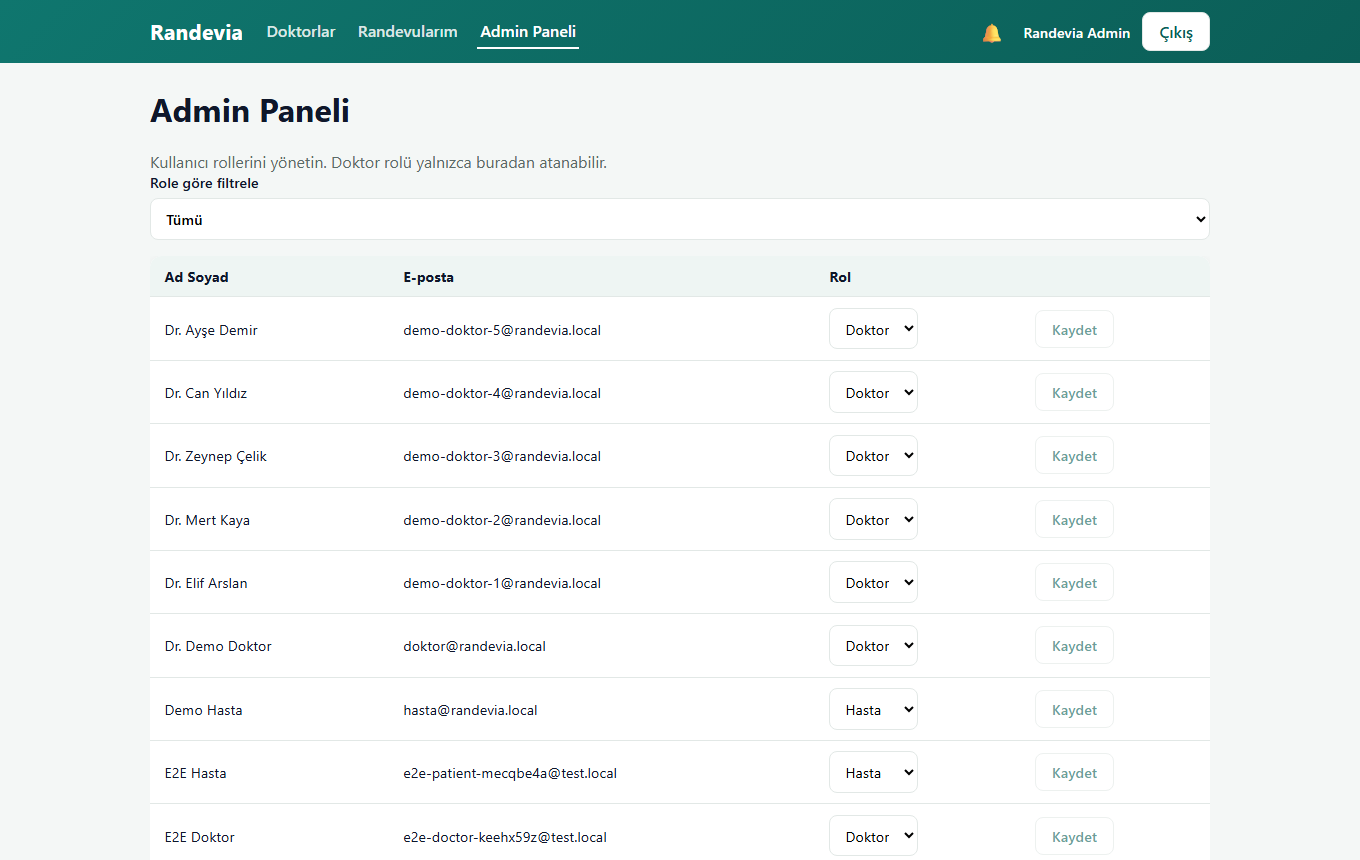
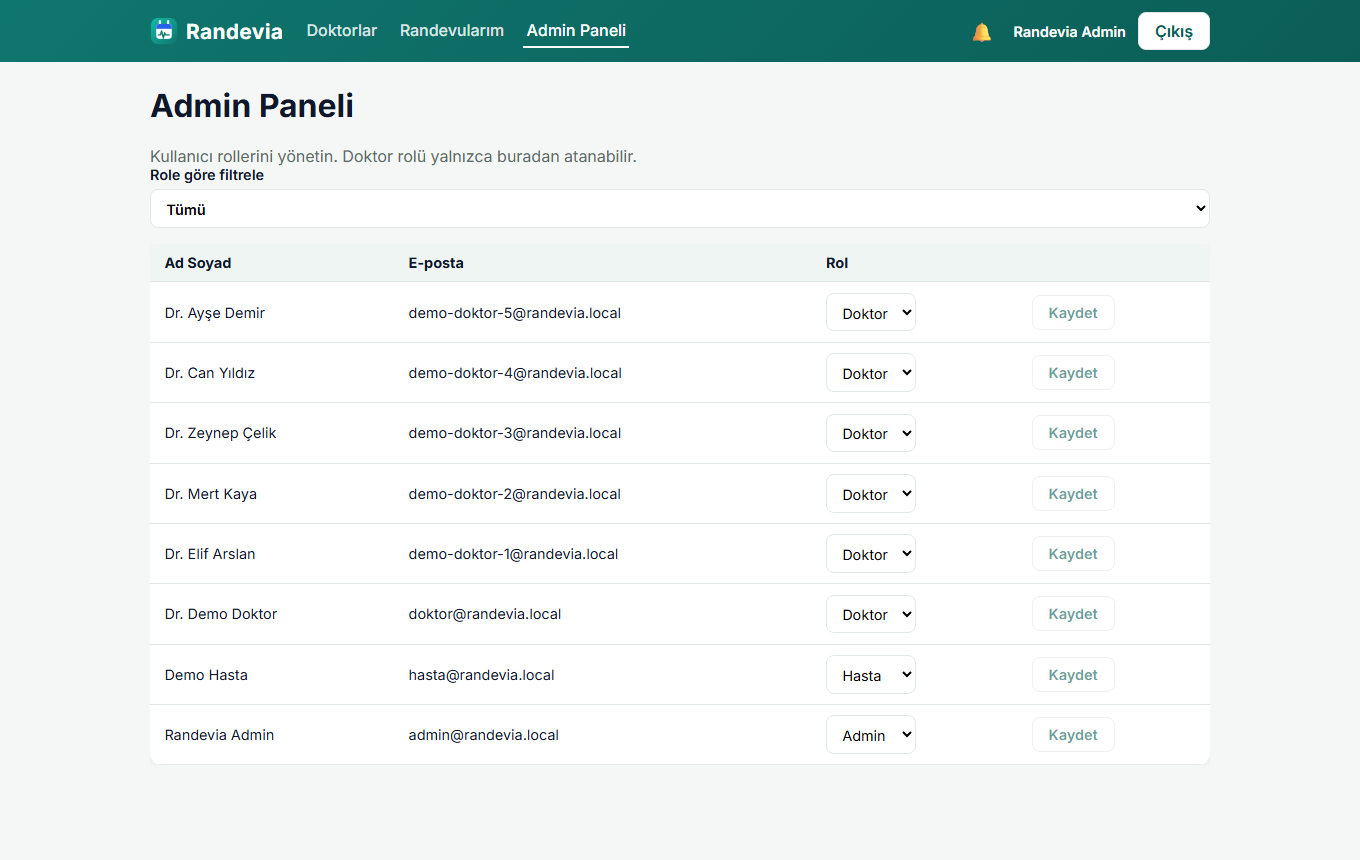
docs: update README for the Turkish-messages and redesign work
Logo at the top, a design-decision note on the Turkish-only user-facing
messages (Zod locale + manual translations) and on denormalizing the
doctor's name, a short note on the new design system, updated test count
(168), and fresh screenshots taken from the redesigned, cleaned-up UI.

diff --git a/README.md b/README.md
@@ -1,3 +1,5 @@
+<p align="center"><img src="web/public/logo.svg" alt="Randevia" height="56" /></p>
+
 # Randevia
 
 **Randevia**, hastaların doktorlardan randevu alabildiği, doktorların randevularını yönetebildiği ve her iki tarafın da randevu hareketlerinden **anlık (gerçek zamanlı)** olarak haberdar edildiği, **mikroservis mimarisiyle** geliştirilmiş bir sağlık randevu sistemidir.
@@ -39,7 +41,8 @@ Sistem; tek giriş noktası olan bir **API Gateway**, kendi veritabanına sahip 
 - **Güvenlik:** JWT (access + refresh token), httpOnly refresh cookie, bcrypt ile parola özeti, helmet, CORS, rate limiting.
 - **Gözlemlenebilirlik:** Her isteğe atanan `X-Request-Id` gateway'den servislere taşınır ve tüm loglarda yer alır; yapılandırılmış JSON loglar.
 - **Web arayüzü:** React + TypeScript SPA; Türkçe, mobil uyumlu, yalnızca gateway ile konuşur. Canlı bildirim zili, toast mesajları ve anlık güncellenen doktor müsaitliği içerir.
-- **Kalite:** TypeScript strict mode, Zod ile girdi ve ortam değişkeni doğrulaması, ESLint + Prettier, 167 backend birim/entegrasyon testi, 34 adımlık REST uçtan uca test ve Socket.io üzerinden iki tarayıcıyla çalışan bir Playwright uçtan uca testi.
+- **Tamamen Türkçe:** Arayüz metinleri ve API'nin ürettiği her hata/uyarı mesajı (doğrulama hataları dahil) Türkçe; hata *kodları* ve loglar İngilizce kalır.
+- **Kalite:** TypeScript strict mode, Zod ile girdi ve ortam değişkeni doğrulaması, ESLint + Prettier, 168 backend birim/entegrasyon testi, 34 adımlık REST uçtan uca test ve Socket.io üzerinden iki tarayıcıyla çalışan bir Playwright uçtan uca testi.
 
 ---
 
@@ -224,6 +227,12 @@ node scripts/e2e.mjs
 
 Web arayüzünün gerçek zamanlı akışını iki tarayıcıyla (hasta + doktor) doğrulayan Playwright testi için [`web/e2e/README.md`](web/e2e/README.md) dosyasına bakın.
 
+Her iki test de kendi oluşturduğu kullanıcı/doktor/randevu/bildirimi, çalışma biter bitmez (`scripts/clean-test-data.mjs` ile) otomatik temizler. Script, `@randevia.local` dışındaki her auth kullanıcısını ve ona referans veren her kaydı siler; demo hesapları ve seed doktorları (hepsi `@randevia.local`) etkilenmez. Elle de çalıştırılabilir:
+
+```bash
+node scripts/clean-test-data.mjs
+```
+
 ### Yerel geliştirme (Docker olmadan servis çalıştırma)
 
 ```bash
@@ -323,7 +332,7 @@ Tüm istekler gateway üzerinden yapılır: `http://localhost:3000`. 🔒 işare
 |---|---|---|---|
 | GET | `/api/v1/doctors` | 🔒 herkes | Doktorları listeler |
 | GET | `/api/v1/doctors/:id` | 🔒 herkes | Doktor detayı, müsaitlik aralıkları ve dolu saatler (`bookedSlots`) |
-| POST | `/api/v1/doctors/me` | 🔒 doctor | Kendi doktor profilini oluşturur / günceller (uzmanlık, biyografi) |
+| POST | `/api/v1/doctors/me` | 🔒 doctor | Kendi doktor profilini oluşturur / günceller (ad, uzmanlık, biyografi) |
 | POST | `/api/v1/doctors/me/availability` | 🔒 doctor | Müsaitlik aralığı ekler |
 
 ### Randevular (appointment-service)
@@ -405,10 +414,10 @@ Her servis, gerçek MongoDB ve RabbitMQ'ya karşı çalışan entegrasyon testle
 | Servis | Test sayısı | Kapsanan başlıca senaryolar |
 |---|---:|---|
 | auth-service | **41** ✅ | Kayıt, giriş, refresh (cookie ve gövde), `/me`, doktor rolüyle kendi kendine kayıt reddi, admin rol atama ve listeleme, yetkisiz erişim (401/403), admin'in kendi rolünü değiştirememesi, admin bootstrap ve şifre rotasyonu, production'da zayıf secret reddi, validate middleware (Express 5 `req.query`) |
-| appointment-service | **48** ✅ | Doktor profili ve müsaitlik, randevu oluşturma, çakışma (409), onay/iptal kuralları, rol kısıtları, olay yayınlama, dolu saatlerin (`bookedSlots`) yalnızca pending/confirmed randevulardan gelmesi, RabbitMQ kapalıyken iş akışının sürmesi, yeniden bağlanma, ortam değişkeni doğrulaması, validate middleware |
+| appointment-service | **49** ✅ | Doktor profili (adıyla birlikte) ve müsaitlik, randevu oluşturma, çakışma (409), onay/iptal kuralları, rol kısıtları, olay yayınlama, dolu saatlerin (`bookedSlots`) yalnızca pending/confirmed randevulardan gelmesi, RabbitMQ kapalıyken iş akışının sürmesi, yeniden bağlanma, ortam değişkeni doğrulaması, validate middleware |
 | notification-service | **50** ✅ | Olaydan bildirim üretimi, şablonlar, ack/nack kararları, gecikmeli retry, deneme hakkı bitince DLQ, bozuk mesajın DLQ'ya gitmesi, idempotency, sayfalama, okundu işaretleme (tekil/toplu, başkasının bildirimini okuyamama), **Socket.io**: yetkisiz/geçersiz token reddi, doğru kullanıcıya doğru `notification` olayı ve unread count, başkasına sızmaması, `doctor:watch` ile `slot.updated` yayını, ortam değişkeni doğrulaması |
 | api-gateway | **28** ✅ | Yönlendirme ve yol koruma, gövde/başlık/cookie aktarımı, request id üretme/taşıma/temizleme, helmet, CORS (liste, `*`, preflight, upstream başlıklarının ezilmesi), genel ve giriş limitleri (429), 502/504, sağlık kontrolleri, **gerçek bir Socket.io el sıkışmasının ve mesajının websocket upgrade üzerinden notification-service'e iletilmesi** |
-| **Toplam** | **167** ✅ | |
+| **Toplam** | **168** ✅ | |
 
 **Uçtan uca test** (`scripts/e2e.mjs`, `docker compose up` ile ayağa kalkan gerçek sisteme karşı, yalnızca gateway üzerinden): **34/34 kontrol başarılı** ✅ — sağlık, request id, güvenlik başlıkları, rate limit başlıkları, kayıt, rol atama, doktor profili ve müsaitlik, randevu alma, çift rezervasyon engeli, onay, iptal, RabbitMQ üzerinden hasta ve doktora iletilen bildirimler, sayfalama ve kuyruk topolojisi.
 
@@ -480,6 +489,12 @@ RabbitMQ **en az bir kez** (at-least-once) teslim garantisi verir: bağlantı ko
 
 Herkes yalnızca **hasta** olarak kayıt olabilir; `role: "doctor"` ile kayıt isteği `400` ile reddedilir. Doktor (ve admin) rolü yalnızca admin tarafından `PATCH /api/v1/auth/users/:id/role` ile atanır. İlk admin, açılışta `ADMIN_EMAIL` / `ADMIN_PASSWORD` değişkenlerinden oluşturulur. Admin'in kendi rolünü değiştirmesi engellenmiştir (sistemin admin'siz kalmaması için). Yeni rol, kullanıcının bir sonraki access token'ında geçerli olur (en geç `JWT_ACCESS_EXPIRES_IN` sonra, `/refresh` ile hemen).
 
+### Türkçe hata ve uyarı mesajları
+
+Kullanıcının görebileceği her metin Türkçedir: doğrulama hataları, 401/403/404/409/429 mesajları, gateway'in 502/504 yanıtları, başarı mesajları ve arayüzdeki tüm metinler. Kod tarafı (değişken/fonksiyon/dosya adları, loglar, commit mesajları, URL'ler) İngilizce kalır — ayrım, "kullanıcıya gösterilen" ile "geliştiriciye/sisteme ait" arasındadır.
+
+Elle yazılan her `ApiError` mesajı ve her Zod şema mesajı Türkçeye çevrildi; ayrıca Zod v4'ün kendi ürettiği mesajlar (örn. bir enum'a özel mesaj yazılmadıysa "geçersiz seçenek" hatası) için `zod/locales`'teki hazır Türkçe sözlük üç servisin açılışında (`z.config(tr())`) etkinleştirildi. Böylece gelecekte eklenecek yeni bir şemaya mesaj yazmayı unutsak bile kullanıcı İngilizce bir hata görmez.
+
 ### Gerçek zamanlı katman (Socket.io + Redis)
 
 Socket.io sunucusu notification-service içinde, REST API ile aynı HTTP sunucusu üzerinde çalışır; gateway, `/socket.io` yolundaki hem normal hem websocket-upgrade isteklerini oraya proxy'ler, böylece istemci tek bir adres (gateway) bilir. Bağlantı anında `io.use` middleware'i JWT'yi `verifyAccessToken` ile doğrular (REST istekleriyle aynı fonksiyon); geçersiz veya eksik token `connect_error` ile reddedilir. Her soket kendi `user:<id>` odasına katılır; bir doktorun sayfasını izleyen herkes (rolünden bağımsız) isteğe bağlı olarak `doctor:<doctorId>` odasına katılabilir.
@@ -493,6 +508,10 @@ Redis adapter bağlantısı **en iyi çaba** (best-effort) ile kurulur ve beklen
 React SPA, sunucu adreslerini bilmez; yalnızca gateway'in adresiyle konuşur (REST ve Socket.io için aynı adres). Erişim token'ı yalnızca bellekte tutulur (XSS'e karşı `localStorage` kullanılmaz); sayfa yenilendiğinde `httpOnly` refresh çerezi ile sessizce yeni bir access token alınır. Bu nedenle `CORS_ORIGIN`'in gateway'de tam olarak web arayüzünün adresine ayarlanması gerekir (`*` ile credentials'lı istekler tarayıcı tarafından reddedilir).
 
 Doktor detay sayfasındaki "müsait saatler" listesi, müsaitlik aralıklarından (30 dakikalık adımlarla) istemci tarafında üretilir ve `bookedSlots` ile karşılaştırılır; `slot.updated` olayı geldiğinde sayfa tamamen yeniden çekilir (ince taneli, kısmi state güncellemesi yerine) — daha az kod ile her zaman doğru sonucu garanti eder.
+
+**Doktorun adı nereden geliyor?** appointment-service, auth-service'e senkron çağrı yapmaz; JWT de yalnızca kullanıcı kimliği ve rolünü taşır, adını değil. Bu yüzden doktor profilini oluşturduğunda (veya seed script çalıştığında) doktorun adı appointment-service'teki `Doctor` dokümanına da yazılır (denormalize edilir) — doktor kartlarının ve detay sayfasının başlık olarak gerçek bir ad gösterebilmesinin tek yolu budur.
+
+**Tasarım sistemi:** Inter yazı tipi, teal/mavi marka paleti, doktor adından türetilen deterministik renkli avatarlar (aynı doktor her zaman aynı rengi alır), uzmanlık için rozet (badge), randevu durumları için renkli rozetler, kartlarda yumuşak hover efektleri, liste yüklenirken iskelet (skeleton) yer tutucular ve her boş liste için tutarlı bir "boş durum" bileşeni. Logo, takvim ve nabız çizgisini birleştiren özgün bir SVG ikon + "Randevia" yazısından oluşur; favicon, üst menü ve giriş/kayıt sayfası karşılama alanında aynı logo kullanılır.
 
 ### Diğer kararlar
 
@@ -515,7 +534,8 @@ randevia/
 ├── docs/screenshots/       # README'deki ekran görüntüleri
 ├── scripts/
 │   ├── e2e.mjs             # Uçtan uca REST testi
-│   └── seed-demo.mjs       # Demo hesapları ve örnek veri
+│   ├── seed-demo.mjs       # Demo hesapları ve örnek veri
+│   └── clean-test-data.mjs # @randevia.local dışındaki test verisini temizler
 ├── docker-compose.yml      # Tüm sistem: 5 servis + 3 MongoDB + RabbitMQ + Redis
 └── .env.example            # docker compose ayarları
 ```
